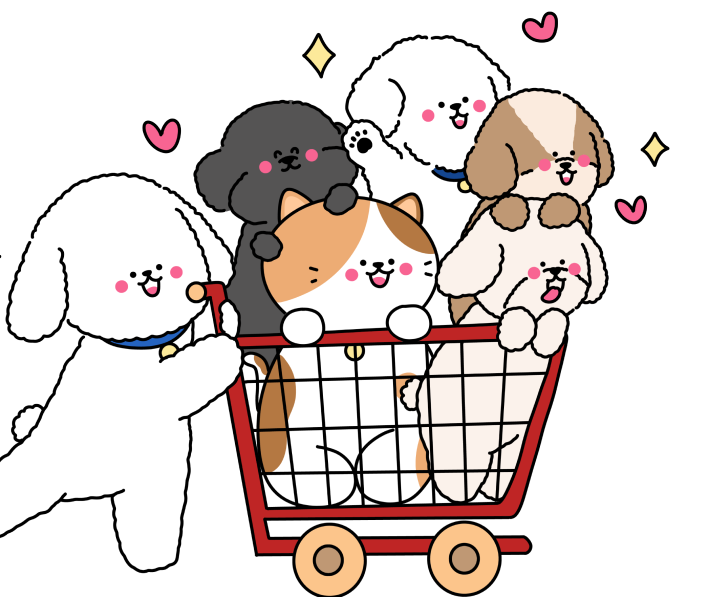
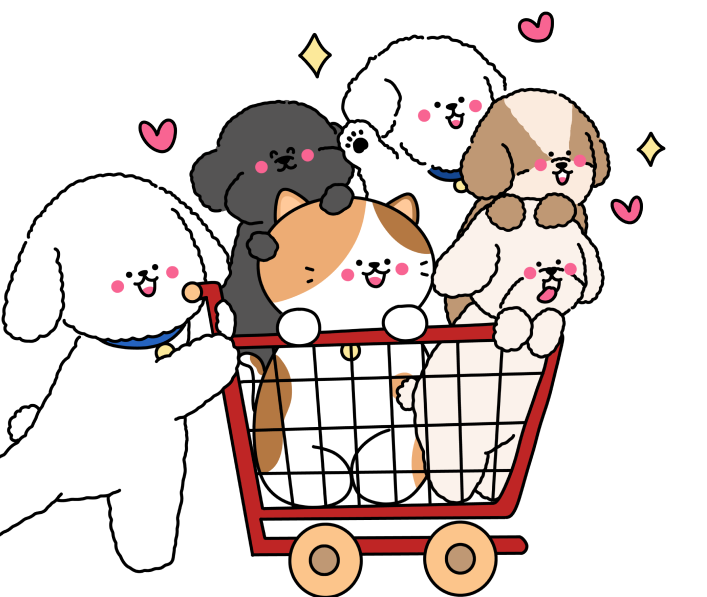
memperbaiki lagi beberapa Footer

diff --git a/Nerumeru/index.html b/Nerumeru/index.html
@@ -357,7 +357,7 @@
           <div class="carousel-item active">
             <div class="row" style="margin-top: 100px">
               <div class="col-md-6 col-sm-12 col-lg-4 rounded mb-4">
-                <div class="card">
+                <div class="card border-0 shadow">
                   <div class="card-body">
                     <h5 class="card-title">
                       <div class="star text-center" style="margin-top: 25px">
@@ -391,7 +391,7 @@
                 </div>
               </div>
               <div class="col-md-6 col-sm-12 col-lg-4 rounded mb-4">
-                <div class="card">
+                <div class="card border-0 shadow">
                   <div class="card-body">
                     <h5 class="card-title">
                       <div class="star text-center" style="margin-top: 25px">
@@ -425,7 +425,7 @@
                 </div>
               </div>
               <div class="col-md-12 mx-auto col-sm-12 col-lg-4 rounded mb-4">
-                <div class="card">
+                <div class="card border-0 shadow">
                   <div class="card-body">
                     <h5 class="card-title">
                       <div class="star text-center" style="margin-top: 25px">
@@ -463,7 +463,7 @@
           <div class="carousel-item">
             <div class="row" style="margin-top: 100px">
               <div class="col-md-6 col-sm-12 col-lg-4 rounded mb-4">
-                <div class="card">
+                <div class="card border-0 shadow">
                   <div class="card-body">
                     <h5 class="card-title">
                       <div class="star text-center" style="margin-top: 25px">
@@ -497,7 +497,7 @@
                 </div>
               </div>
               <div class="col-md-6 col-sm-12 col-lg-4 rounded mb-4">
-                <div class="card">
+                <div class="card border-0 shadow">
                   <div class="card-body">
                     <h5 class="card-title">
                       <div class="star text-center" style="margin-top: 25px">
@@ -531,7 +531,7 @@
                 </div>
               </div>
               <div class="col-md-12 mx-auto col-sm-12 col-lg-4 rounded mb-4">
-                <div class="card">
+                <div class="card border-0 shadow">
                   <div class="card-body">
                     <h5 class="card-title">
                       <div class="star text-center" style="margin-top: 25px">
@@ -600,8 +600,8 @@
     <footer style="background-color: #2762be; margin-top: 150px">
       <div class="container-fluid">
         <div class="row row-footer">
-          <div class="col-lg-6 col-img-footer">
-            <img src="../asset/img/Trolly.png" alt="" width="100%" />
+          <div class="col-lg-6 col-img-footer text-center">
+            <img src="../asset/img/Trolly.png" alt="" width="90%" />
           </div>
           <div class="col-lg-6">
             <div class="row">
@@ -614,27 +614,40 @@
                   quality materials, every Neru Meru product is created for the
                   comfort of pets and their human companions.
                 </p>
+                <p class="fw-lighter text-white mt-5" style="font-size: 17px">
+                  © Nerumeru . All rights reserved.
+                </p>
               </div>
               <div class="col-lg-4 mx-auto dummy-container-footer">
                 <h4 class="text-white fw-bold">Contact Us</h4>
                 <div class="dummy mt-4">
                   <i class="bi bi-telephone-plus-fill text-white"
-                    ><span class="mx-3 text-white">+62-812-1972-1945</span></i
+                    ><span class="mx-3 text-white fw-bold"
+                      >+62-812-1972-1945</span
+                    ></i
                   >
                 </div>
                 <div class="dummy mt-3">
                   <i class="bi bi-envelope-fill text-white"
-                    ><span class="mx-3 text-white">NeruMeru@gmail.com</span></i
+                    ><span class="mx-3 text-white fw-bold"
+                      >NeruMeru@gmail.com</span
+                    ></i
                   >
                 </div>
                 <div
-                  class="sosial-media-hero"
+                  class="sosial-media-footer"
                   style="font-size: 30px !important; margin-top: 110px"
                 >
                   <h4 class="fw-bold mb-3 text-white">Realted Links</h4>
                   <i class="bi bi-facebook text-white"></i>
-                  <i class="bi bi-twitter text-white"></i>
-                  <i class="bi bi-instagram text-white"></i>
+                  <i
+                    class="bi bi-twitter text-white"
+                    style="margin-left: 15px"
+                  ></i>
+                  <i
+                    class="bi bi-instagram text-white"
+                    style="margin-left: 15px"
+                  ></i>
                 </div>
               </div>
             </div>
@@ -651,7 +664,7 @@
     var nav = document.querySelector("nav");
     window.addEventListener("scroll", function () {
       if (window.pageYOffset > 50) {
-        nav.classList.add("bg-white");
+        nav.classList.add("bg-white", "shadow");
       } else {
         nav.classList.remove("bg-white", "shadow");
       }

diff --git a/Nerumeru/css/style.css b/Nerumeru/css/style.css
@@ -104,6 +104,20 @@
   color: #3b5998;
 }
 
+.personText {
+  display: flex;
+}
+
+.personText > img {
+  width: 48px;
+  height: 48px;
+  border-radius: 48px;
+}
+
+.carousel-item {
+  transition: opacity 0.6s ease-in-out;
+}
+
 @media screen and (max-width: 920px) {
   .hero-headline {
     text-align: center !important;
@@ -194,18 +208,4 @@
   .card > img {
     width: 250px;
   }
-}
-
-.personText {
-  display: flex;
-}
-
-.personText > img {
-  width: 48px;
-  height: 48px;
-  border-radius: 48px;
-}
-
-.carousel-item {
-  transition: opacity 0.6s ease-in-out;
 }

diff --git a/global/footer.css b/global/footer.css
@@ -10,7 +10,7 @@
 
 @media screen and (max-width: 920px) {
   .dummy-container-footer {
-    margin-top: 50px;
+    margin-top: 30px;
   }
 
   .col-img-footer {
@@ -18,6 +18,10 @@
   }
 
   .col-img-footer > img {
-    width: 60%;
+    width: 55%;
+  }
+
+  .sosial-media-footer {
+    margin-top: 50px !important;
   }
 }
